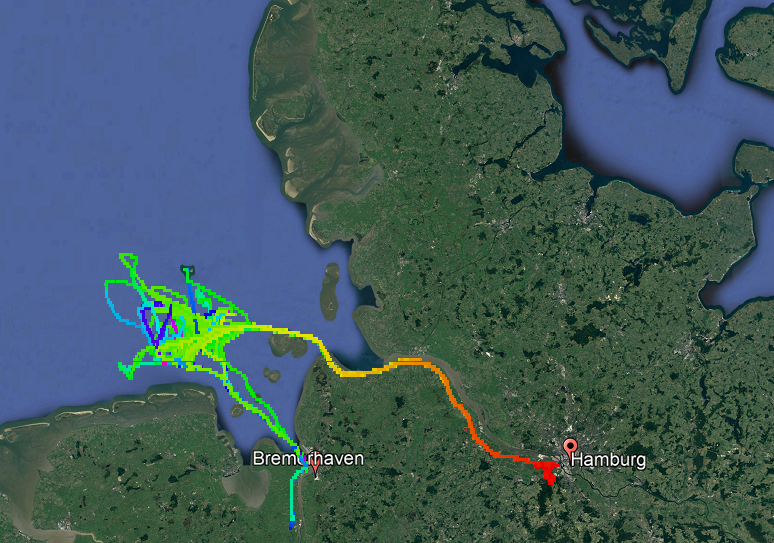
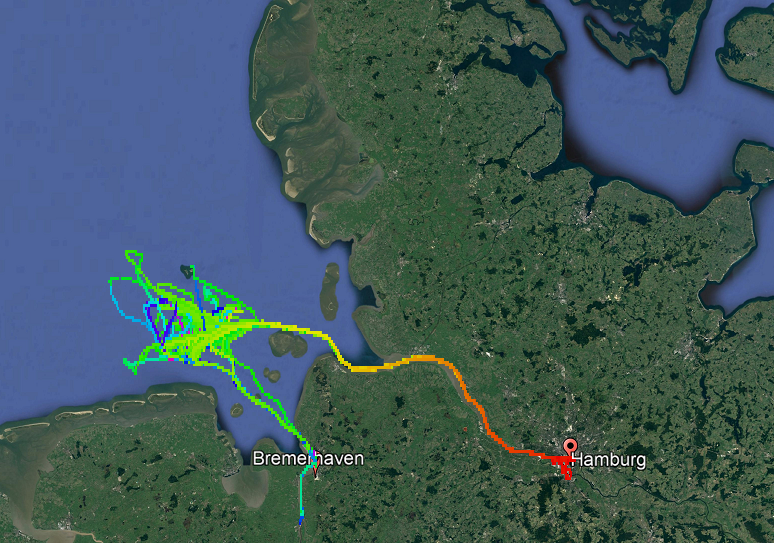
new BrhvHH hist data pic

Changed region(s): [[0.124, 0.442, 0.7442, 0.9724]]

diff --git a/java/src/sd/group03/DrawHistData.java b/java/src/sd/group03/DrawHistData.java
@@ -18,20 +18,13 @@ public class DrawHistData {
 	
 	// unterschiedlich von Bildausschnitt zu Bildausschnitt
 	
-	// WERTE BRHV-HH
-//	private static final double LEFT_LON = 6.84;
-//	private static final double RIGHT_LON = 11.23;
-//	
-//	private static final double TOP_LAT = 55.07;
-//	private static final double BOT_LAT = 53.27;
-
-		//Werte Kiel-Gdynia
-	private static final double LEFT_LON = 9.33;
-	private static final double RIGHT_LON = 20.26;
+	//Werte Kiel-Gdynia
+	private static double LEFT_LON = 0.0;
+	private static double RIGHT_LON = 0.0;
 	
-	private static final double TOP_LAT = 57.37;
-	private static final double BOT_LAT = 53.04;
-
+	private static double TOP_LAT = 0.0;
+	private static double BOT_LAT = 0.0;
+	
 	
 	
 	public static int x_Geo2Pix(double lon) {
@@ -45,9 +38,67 @@ public class DrawHistData {
 		return yPix;
 	}
 	
-	
+	public static void drawbhhist()throws IOException {
+		
+		int max_bh = 1741;
+		
+        final BufferedImage image = ImageIO.read(new File("src/bh.png"));
+        final Graphics2D graphics2D = image.createGraphics ();
+        
+		BufferedReader br = null;
+        String line = "";
+        String cvsSplitBy = ",";
+        
 
-	public static void main(String[] args) throws IOException {
+        try {
+            br = new BufferedReader(new FileReader("../BrhvHH/Daten/TandTData/TrainingSet.csv"));
+                        
+            line = br.readLine(); // read the Header
+            
+            while ((line = br.readLine()) != null) {
+                
+            	// use comma as separator
+                String[] AisRow = line.split(cvsSplitBy);
+                float lat = Float.parseFloat(AisRow[1]);
+                float lon = Float.parseFloat(AisRow[2]);
+                float rtt = Float.parseFloat(AisRow[0]);
+               
+                graphics2D.setColor ( Color.getHSBColor( rtt/max_bh, 1f,  0.9f) );
+                //graphics2D.drawLine(x_Geo2Pix(old_lon), y_Geo2Pix(old_lat), x_Geo2Pix(lon), y_Geo2Pix(lat));
+                graphics2D.fillRect (x_Geo2Pix(lon),y_Geo2Pix(lat),2,3 );
+            }
+            System.out.println("fertig");
+
+        } catch (FileNotFoundException e) {
+            e.printStackTrace();
+        } catch (IOException e) {
+            e.printStackTrace();
+        }finally {
+            if (br != null) {
+                try {
+                    br.close();
+                } catch (IOException e) {
+                    e.printStackTrace();
+                }
+            }
+        }
+
+        graphics2D.dispose ();
+
+        try {
+			ImageIO.write ( image, "png", new File ( "bhplot.png" ) );
+		} catch (IOException e) {
+			// TODO Auto-generated catch block
+			e.printStackTrace();
+		}
+
+	}
+	
+	
+	
+	public static void drawkghist()throws IOException {
+		
+		int max_kg = 2996;
 		
         final BufferedImage image = ImageIO.read(new File("src/kg.png"));
         final Graphics2D graphics2D = image.createGraphics ();
@@ -72,7 +123,7 @@ public class DrawHistData {
                 old_lat = Float.parseFloat(firstRow[1]);
                 old_lon = Float.parseFloat(firstRow[2]);
             }
-            int count = 0;
+            
             while ((line = br.readLine()) != null) {
                 
             	// use comma as separator
@@ -81,17 +132,17 @@ public class DrawHistData {
                 float lon = Float.parseFloat(AisRow[2]);
                 float rtt = Float.parseFloat(AisRow[0]);
                 
-                int max_bh = 1741;
-                int max_kg = 2996;
+                
+                
                 
                
-                graphics2D.setColor ( Color.getHSBColor( rtt/2996, 1f,  0.9f) );
+                graphics2D.setColor ( Color.getHSBColor( rtt/max_kg, 1f,  0.9f) );
                 //graphics2D.drawLine(x_Geo2Pix(old_lon), y_Geo2Pix(old_lat), x_Geo2Pix(lon), y_Geo2Pix(lat));
                 graphics2D.fillRect (x_Geo2Pix(lon),y_Geo2Pix(lat),3,3 );
                 
                 old_lat = lat;
                 old_lon = lon;
-                count++;
+
 
                   
                 }
@@ -111,17 +162,73 @@ public class DrawHistData {
             }
         }
 
-
-
-
         graphics2D.dispose ();
 
         try {
-			ImageIO.write ( image, "png", new File ( "kgplot.png" ) );
+			ImageIO.write ( image, "png", new File ( "bhkgplot.png" ) );
 		} catch (IOException e) {
 			// TODO Auto-generated catch block
 			e.printStackTrace();
 		}
+
+		
+	}
+	
+	public static void drawAgent(double geo, String readfrom, String output)throws IOException {
+		
+        final BufferedImage image = ImageIO.read(new File(readfrom));
+        final Graphics2D graphics2D = image.createGraphics ();
+      
+        
+        
+        graphics2D.setColor ( Color.getHSBColor( 0.7f, 1f,  0.9f) );
+        graphics2D.fillRect (x_Geo2Pix(geo)-1,0,2, 774);
+        System.out.println("fertig");
+
+        graphics2D.dispose ();
+
+        try {
+			ImageIO.write ( image, "png", new File (output) );
+		} catch (IOException e) {
+			// TODO Auto-generated catch block
+			e.printStackTrace();
+		}
+	}
+	
+	
+
+	public static void main(String[] args) throws IOException {
+		
+		int option = 2;
+		
+		switch (option) {
+			case 0: // BH plot
+			case 1: // BH Agent
+			case 2: // BH Agentplot
+				LEFT_LON = 6.83;
+				RIGHT_LON = 11.1;
+				TOP_LAT = 55.07;
+				BOT_LAT = 53.25;
+				
+				break;
+			case 3: //KG plot
+			case 4: // KG Agent
+			case 5: // KG Agent Plot
+				//Werte Kiel-Gdynia
+				LEFT_LON = 9.33;
+				RIGHT_LON = 20.26;
+				
+				TOP_LAT = 57.37;
+				BOT_LAT = 53.04;
+				break;
+		}
+		
+		//drawAgent(8.69,"src/bh.png","test.png");
+		
+		drawbhhist();
+		
+		
+		
 
 	}
 

diff --git a/java/src/sd/group03/BrokerNetworkConnection.java b/java/src/sd/group03/BrokerNetworkConnection.java
@@ -66,29 +66,35 @@ public class BrokerNetworkConnection implements Runnable {
 
     public JSONObject createResultResponse(PredictionResult pr) {
         JSONObject result = new JSONObject();
-
-        if(pr != null) {
-            result.put("type", "result");
-            result.put("ett", pr.getETT());
-
-            JSONArray ett = new JSONArray();
-            JSONArray lat = new JSONArray();
-            JSONArray lon = new JSONArray();
-
-            for(ModelInput mi : pr.intermediateResults) {
-                ett.put(mi.value("RemainingTravelTimeInMinutes"));
-                lat.put(mi.value("Latitude"));
-                lon.put(mi.value("Longitude"));
-            }
-
-            result.put("intermediateETT", ett);
-            result.put("intermediateLat", lat);
-            result.put("intermediateLon", lon);
-        }
-        else {
-            result.put("type", "error");
-            result.put("message", "Broker could not make a prediction!");
-        }
+        try {
+			result.put("type", "result");
+		
+	        if(pr != null) {
+	        
+	            result.put("ett", pr.getETT());
+	
+	            JSONArray ett = new JSONArray();
+	            JSONArray lat = new JSONArray();
+	            JSONArray lon = new JSONArray();
+	
+	            for(ModelInput mi : pr.intermediateResults) {
+	                ett.put(mi.value("RemainingTravelTimeInMinutes"));
+	                lat.put(mi.value("Latitude"));
+	                lon.put(mi.value("Longitude"));
+	            }
+	
+	            result.put("intermediateETT", ett);
+	            result.put("intermediateLat", lat);
+	            result.put("intermediateLon", lon);
+	        
+	        }else {
+	            result.put("type", "error");
+	            result.put("message", "Broker could not make a prediction!");
+	        }
+        } catch (JSONException e) {
+			// TODO Auto-generated catch block
+			e.printStackTrace();
+		}
         return result;
     }
 

diff --git a/java/src/sd/group03/MapView.java b/java/src/sd/group03/MapView.java
@@ -34,7 +34,6 @@ public class MapView extends JPanel{
     public void changeMap(int num) {
     	route = num;
     	String pic = "";
-    	System.out.println(route);
     	switch (route) {
     	   case 0:
     		   pic = "gross.png";
